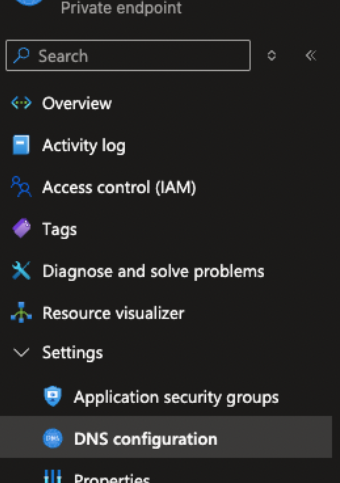
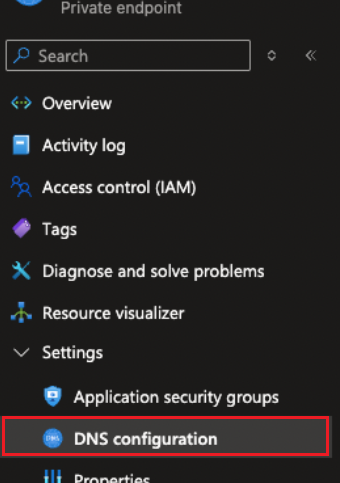
Private endpoints in concepts articles

Changed region(s): [[0.0, 0.8385, 0.9706, 0.9627]]

diff --git a/articles/azure-maps/private-endpoints.md b/articles/azure-maps/private-endpoints.md
@@ -3,15 +3,15 @@ title: Using private endpoints with Azure Maps
 description: Learn how to use private endpoints with Azure Maps. 
 author: pbrasil
 ms.author: peterbr 
-ms.date: 02/26/2026
-ms.topic: concepts
+ms.date: 02/27/2026
+ms.topic: conceptual
 ms.service: azure-maps
 ms.subservice: authentication
 ---
 
 # Using private endpoints with Azure Maps
 
-Azure Maps supports [Azure Private Link](https://learn.microsoft.com/en-us/azure/private-link/private-link-overview), enabling secure access to Azure Maps services through a private endpoint in your virtual network. A private endpoint assigns a private IP address from your virtual network to the Azure Maps service, so traffic between your applications and Azure Maps stays on the Microsoft backbone network instead of the public internet. This provides improved security and network isolation. You can create a private endpoint when you create an Azure Maps account or add one to an existing account.
+Azure Maps supports [Azure Private Link](/../private-link/private-link-overview), enabling secure access to Azure Maps services through a private endpoint in your virtual network. A private endpoint assigns a private IP address from your virtual network to the Azure Maps service, so traffic between your applications and Azure Maps stays on the Microsoft backbone network instead of the public internet. This provides improved security and network isolation. You can create a private endpoint when you create an Azure Maps account or add one to an existing account.
 
 ## Benefits of private endpoints for Azure Maps
 
@@ -75,15 +75,14 @@ If you enabled **Private DNS integration** when creating the endpoint (the defau
 Clients inside the virtual network resolve the hostname to the private IP address, enabling private connectivity. Clients outside the virtual network resolve the same hostname to the Azure Maps public endpoint. This split‑horizon DNS approach lets you use a single endpoint URL both inside and outside the virtual network.
 
 If you don't use automatic DNS integration, configure DNS manually so the Azure Maps account hostname  
-(`<maps-account-client-id>.<location>.privatelink.account.maps.azure.com`) resolves to the private endpoint IP address in your network. For more information, see [Azure Private Endpoint DNS documentation](https://learn.microsoft.com/azure/private-link/private-endpoint-dns).
+(`<maps-account-client-id>.<location>.privatelink.account.maps.azure.com`) resolves to the private endpoint IP address in your network. For more information, see [Azure Private Endpoint DNS documentation](/../private-link/private-endpoint-dns).
 
 
 ### 3. Use the private endpoint in your applications
 
 To use the private endpoint, configure your applications to call the **Azure Maps account-specific endpoint**. You can find this endpoint in the Azure Maps account **Overview** or **Authentication** pages, or in the private endpoint resource under **DNS configuration** (customer-visible FQDNs).
 
-![Screenshot](/media/private-endpoint/dns-configuration.png)
-
+:::image type="content" source="./media/private-endpoint/dns-configuration.png" alt-text="Azure portal sidebar menu for a private endpoint resource, highlighting the DNS configuration option under Settings. The menu includes options such as Overview, Activity log, Access control IAM, Tags, Diagnose and solve problems, Resource visualizer, Application security groups, DNS configuration, and Properties. The environment is a dark-themed Azure portal interface, and the focus is on configuring DNS for private endpoints. The tone is neutral and instructional.":::
 The access pattern is:
 
 `https://{maps-account-client-id}.{location}.privatelink.account.maps.azure.com`
